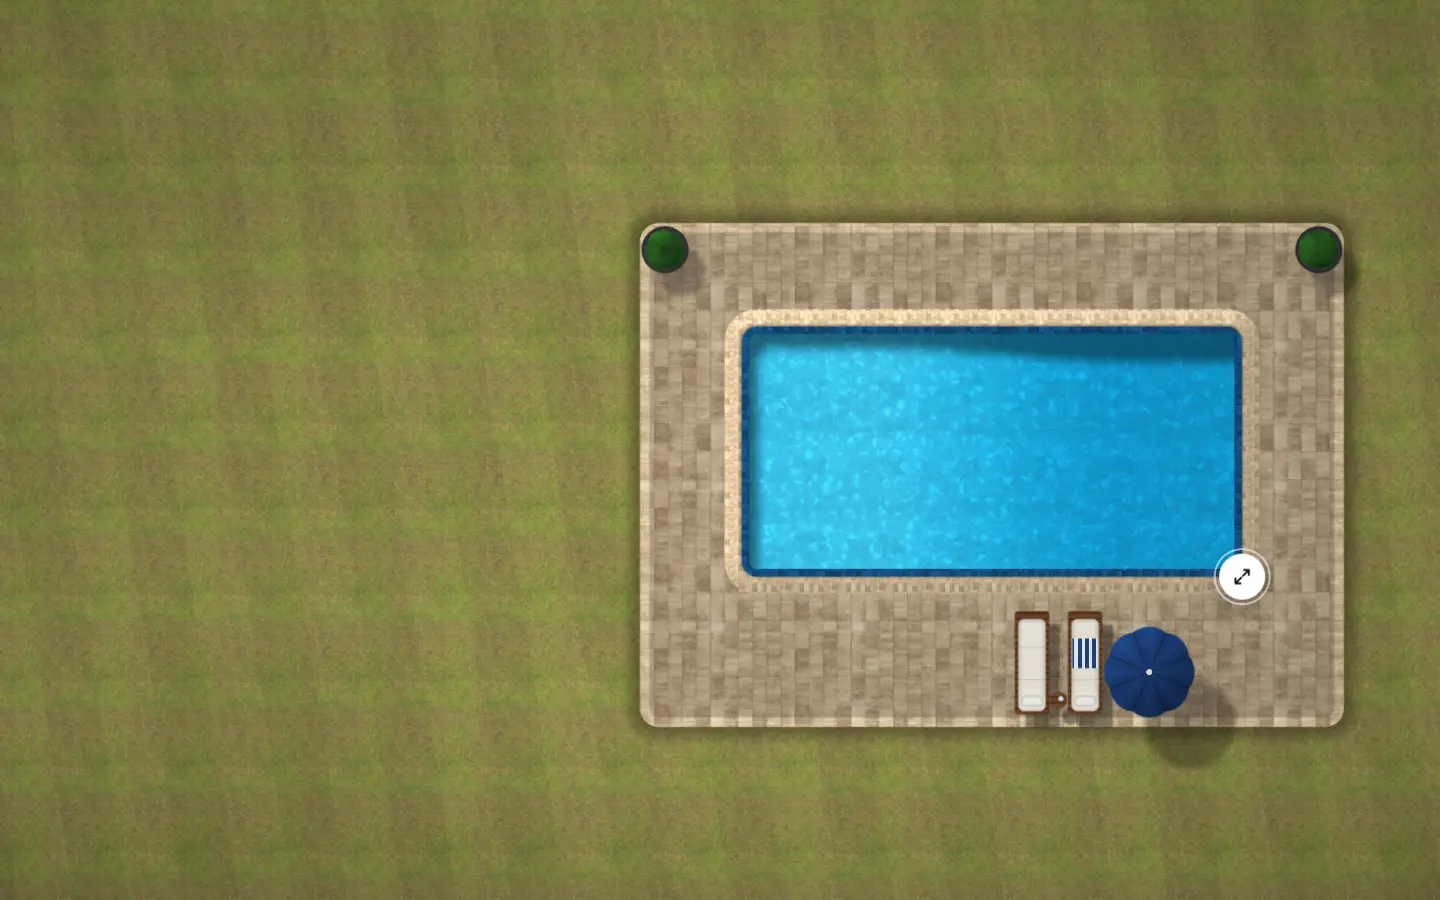
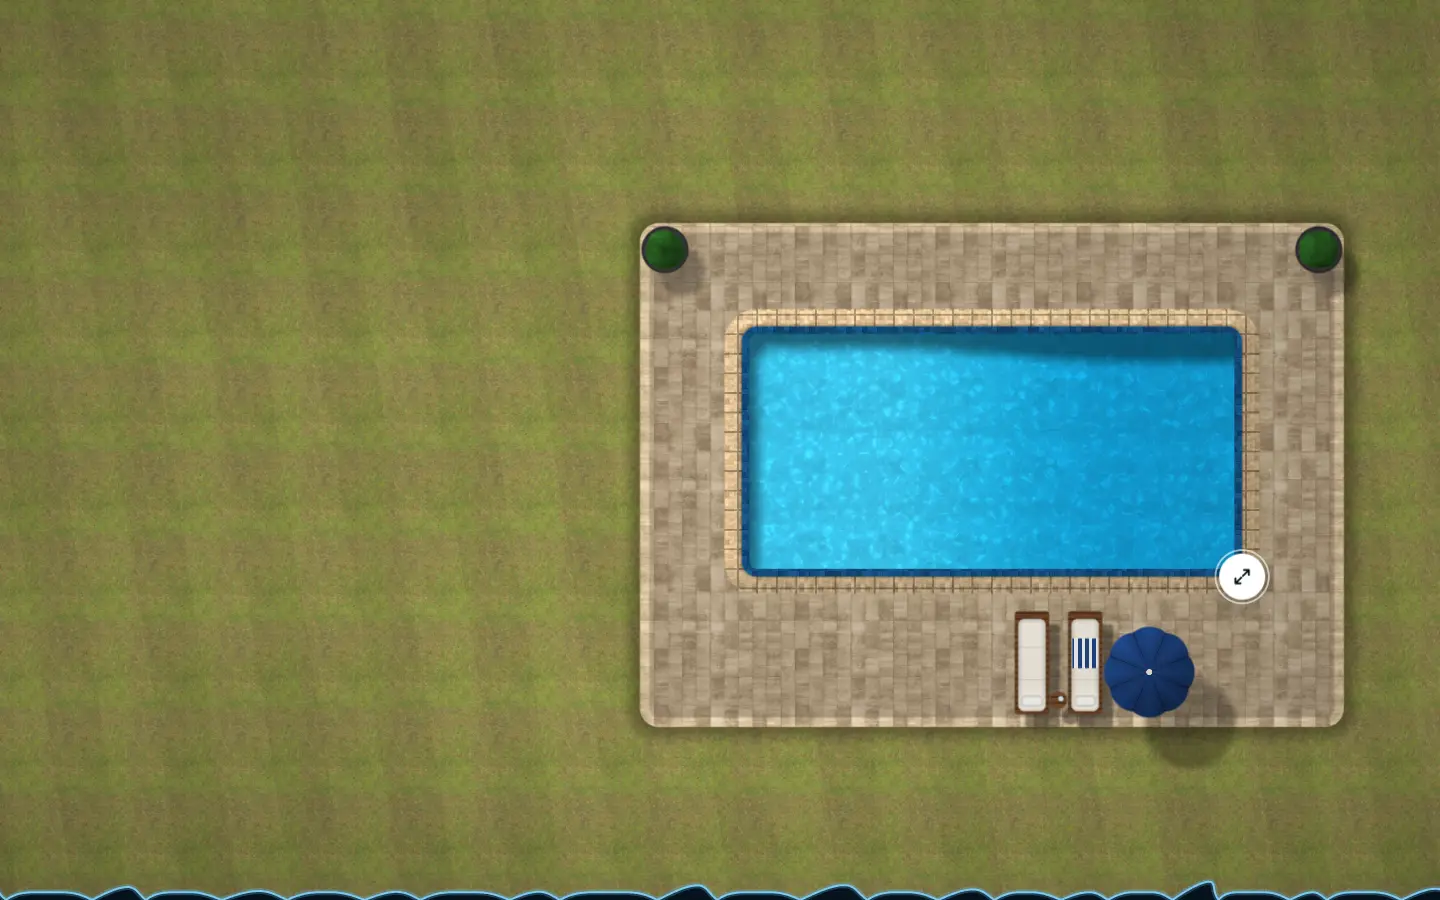
Deck edge, varied dividers, swipeable build photos, desktop scroll-in, phone hero

diff --git a/app.js b/app.js
@@ -12,7 +12,7 @@ const esc = s => String(s).replace(/[&<>"]/g, c => ({ '&': '&amp;', '<': '&lt;',
   if (reduced || !('IntersectionObserver' in window)) { els.forEach(e => e.classList.add('is-visible')); return; }
   const n = new Map();
   els.forEach(e => { const p = e.parentElement, i = n.get(p) || 0; e.style.setProperty('--d', i * .08 + 's'); n.set(p, i + 1); });
-  const io = new IntersectionObserver(es => es.forEach(e => { if (e.isIntersecting) { e.target.classList.add('is-visible'); io.unobserve(e.target); } }), { threshold: .01, rootMargin: '0px 0px -8% 0px' });
+  const io = new IntersectionObserver(es => es.forEach(e => { if (e.isIntersecting) { e.target.classList.add('is-visible'); io.unobserve(e.target); } }), { threshold: .01, rootMargin: innerWidth > 860 ? '0px 0px -16% 0px' : '0px 0px -8% 0px' });
   els.forEach(e => io.observe(e));
   setTimeout(() => els.forEach(e => { if (e.getBoundingClientRect().top < innerHeight) e.classList.add('is-visible'); }), 1500);
 })();
@@ -74,7 +74,7 @@ function openPlanner() {
 $('#svcPlan').addEventListener('click', openPlanner);
 $('#planDone').addEventListener('click', () => { hero.classList.remove('planning'); $('#svcPlan').setAttribute('aria-expanded', 'false'); scrollTo({ top: 0, behavior: reduced ? 'auto' : 'smooth' }); $('#svcPlan').focus({ preventScroll: true }); });
 $$('a[href="#design"]:not(#dockMain)').forEach(a => a.addEventListener('click', e => { e.preventDefault(); openPlanner(); }));
-import('./yard.js?v=3').then(({ mountYard }) => {
+import('./yard.js?v=4').then(({ mountYard }) => {
   const copy = $('.hero-copy');
   yard = mountYard(cv, { dpr: phone() ? 1.5 : 1.25, reduced, still: q.has('still'), labels: { L: $('#dimL'), W: $('#dimW') }, grip: $('#grip'),
     pad: phone() ? [18, 30] : [34, 30],
@@ -98,20 +98,32 @@ const story = [
 ];
 let si = 0;
 const sImg = $('#storyImg');
-function setStory(i) {
+function setStory(i, dir = 0) {
   si = (i + story.length) % story.length; const [f, t, b, alt] = story[si];
   $$('#storySteps button').forEach((e, k) => e.setAttribute('aria-pressed', k === si));
   $('#storyTitle').textContent = t; $('#storyBody').textContent = b; $('#storyCount').textContent = String(si + 1).padStart(2, '0') + ' / 07';
   sImg.classList.add('swap');
   const im = new Image(); im.src = `img/${f}-lg.webp`;
-  const go = () => { sImg.srcset = `img/${f}-sm.webp 600w, img/${f}-lg.webp 1000w`; sImg.src = `img/${f}-lg.webp`; sImg.alt = alt; sImg.classList.remove('swap'); };
+  const go = () => { sImg.srcset = `img/${f}-sm.webp 600w, img/${f}-lg.webp 1000w`; sImg.src = `img/${f}-lg.webp`; sImg.alt = alt; sImg.classList.remove('swap');
+    if (dir && !reduced) { sImg.style.transition = 'none'; sImg.style.transform = `translateX(${dir * 36}px)`; sImg.style.opacity = 0; void sImg.offsetWidth; sImg.style.transition = ''; }
+    sImg.style.transform = ''; sImg.style.opacity = ''; };
   im.decode ? im.decode().then(go, go) : go();
   const btn = $$('#storySteps button')[si]; if (phone() && btn) btn.parentElement.parentElement.scrollTo({ left: btn.offsetLeft - 16, behavior: reduced ? 'auto' : 'smooth' });
 }
 $('#storyBody').textContent = story[0][2];
 $$('#storySteps button').forEach(b => b.addEventListener('click', () => setStory(+b.dataset.i)));
-$('#storyPrev').addEventListener('click', () => setStory(si - 1));
-$('#storyNext').addEventListener('click', () => setStory(si + 1));
+$('#storyPrev').addEventListener('click', () => setStory(si - 1, -1));
+$('#storyNext').addEventListener('click', () => setStory(si + 1, 1));
+// swipe the photo: it follows the finger sideways, then the next step slides in. Up-and-down still scrolls the page.
+{ const m = $('.story-media'); let x0 = 0, y0 = 0, dx = 0, axis = '', on = false;
+  m.addEventListener('touchstart', e => { if (e.touches.length !== 1) return; on = true; axis = ''; dx = 0; x0 = e.touches[0].clientX; y0 = e.touches[0].clientY; sImg.style.transition = 'none'; }, { passive: true });
+  m.addEventListener('touchmove', e => { if (!on) return; const t = e.touches[0]; dx = t.clientX - x0; const dy = t.clientY - y0;
+    if (!axis && Math.abs(dx) + Math.abs(dy) > 8) axis = Math.abs(dx) > Math.abs(dy) ? 'x' : 'y';
+    if (axis === 'x') { sImg.style.transform = `translateX(${dx * .9}px)`; sImg.style.opacity = Math.max(.35, 1 - Math.abs(dx) / 420); } }, { passive: true });
+  const end = () => { if (!on) return; on = false; sImg.style.transition = '';
+    if (axis === 'x' && Math.abs(dx) > 48) { const d = dx < 0 ? 1 : -1; sImg.style.transform = `translateX(${-d * 70}px)`; sImg.style.opacity = 0; m.classList.add('swiped'); setStory(si + d, d); }
+    else { sImg.style.transform = ''; sImg.style.opacity = ''; } };
+  m.addEventListener('touchend', end); m.addEventListener('touchcancel', end); }
 story.forEach(([f]) => { if (f !== 'b1-stakes') { const l = document.createElement('link'); l.rel = 'prefetch'; l.href = `img/${f}-${phone() ? 'sm' : 'lg'}.webp`; document.head.append(l); } });
 
 /* ---------- chips ---------- */
@@ -353,31 +365,34 @@ new IntersectionObserver(([e]) => { inReq = e.isIntersecting; dockSet(); }, { th
   const hash = n => { const v = Math.sin(n * 127.1 + 311.7) * 43758.5453; return v - Math.floor(v); };
   const noise = x => { const i = Math.floor(x), f = x - i, u = f * f * (3 - 2 * f); return hash(i) * (1 - u) + hash(i + 1) * u; };
   const ss = (a, b, x) => { const v = Math.max(0, Math.min(1, (x - a) / (b - a))); return v * v * (3 - 2 * v); };
-  const water = (s, seed) => ss(.44, .62, noise(s / 520 + seed));
+  const water = (s, seed, ch) => ss(ch.wt, ch.wt + .18, noise(s / ch.ws + seed));
   const B = 112; let lean = 0;                                             // lean: how far (px) this point is pushed forward, set by trace()
-  const trace = (s, t, seed) => {
-    let v = 0; const j = Math.floor(s / B); lean = 0;
+  const trace = (s, t, seed, ch) => {
+    let v = 0; const j = Math.floor(s / (B * ch.bs)); lean = 0;
     // heartbeat: tall uneven spikes; a pulse travels down the line about once a second and kicks each spike as it passes (lub, then a softer dub)
     for (let n = j - 1; n <= j + 1; n++) {
       const h1 = hash(n * 3.17 + seed), h2 = hash(n * 5.31 + seed + 9), h3 = hash(n * 7.77 + seed + 21), h4 = hash(n * 1.93 + seed + 33);
       if (h3 < .08) continue;                                              // a skipped beat now and then
-      const c = (n + .5 + (h1 - .5) * .42) * B, x = (s - c) / (B * (.8 + .35 * h4)) + .4;
+      const c = (n + .5 + (h1 - .5) * .42) * B * ch.bs, x = (s - c) / (B * ch.bs * (.72 + .4 * h4)) + .4;
       if (x <= 0 || x >= 1) continue;
       const ph = ((t * 1.05 - c / 760 + seed) % 1 + 1) % 1, kick = Math.exp(-ph * 5.5) + .5 * Math.exp(-(((ph + .72) % 1)) * 7);
-      v += (.62 + .16 * h2) * (1 + .16 * kick) * (1 - water(c, seed)) * beat(x);
+      v += (.5 + .3 * h2 + (h2 > .9 ? .08 : 0)) * ch.bg * (1 + .16 * kick) * (1 - water(c, seed, ch)) * beat(x);
     }
     // water: sets of real swells. Sharp crests, long flat troughs, crests pushed forward so they lean and start to curl, rolling faster than the line travels
-    const w = water(s, seed);
+    const w = water(s, seed, ch);
     if (w > .001) {
-      const set = .55 + .45 * noise(s / 210 + seed + 70 - t * .1), ph = (s + 30 * Math.sin(s / 310 + seed)) / 104 * 6.2832 - t * 2.5;   // every moving part runs forward, the way the line travels
-      const c1 = Math.pow(.5 + .5 * Math.sin(ph), 1.5);
-      const hgt = w * set * c1 * .78;
+      const set = .55 + .45 * noise(s / 210 + seed + 70 - t * .1), ph = (s + 34 * Math.sin(s / 310 + seed) + 14 * Math.sin(s / 137 + seed * 2.)) / ch.wl * 6.2832 - t * ch.roll;   // every moving part runs forward, the way the line travels
+      const ci = Math.floor(ph / 6.2832 + .25), ah = .5 + .5 * hash(ci * 1.7 + seed), shp = 1.15 + 1.5 * hash(ci * 2.3 + seed + 5);   // this wave's own height and sharpness; they travel with it
+      const c1 = Math.pow(.5 + .5 * Math.sin(ph), shp) * ah;
+      const hgt = w * set * c1 * ch.wg;
       v += hgt - w * .26;
-      lean = 15 * hgt * hgt;                                    // the top of the crest is thrown forward so it curls over its own face
+      lean = ch.ln * hgt * hgt;                                    // the top of the crest is thrown forward so it curls over its own face
     }
     return v;
   };
-  const items = $$('.pulse').map((el, i) => { const cv = document.createElement('canvas'); el.append(cv); el.classList.add('live'); return { el, cv, ctx: cv.getContext('2d'), on: false, off: i * 1733.3, seed: i * 17.37 + 3, sp: 52 + (i * 7 % 5) * 6, w: 0, h: 0, sec: el.parentElement, prev: el.parentElement.previousElementSibling }; });
+  const items = $$('.pulse').map((el, i) => { const cv = document.createElement('canvas'); el.append(cv); el.classList.add('live'); return { el, cv, ctx: cv.getContext('2d'), on: false, off: i * 1733.3, seed: i * 17.37 + 3, sp: 46 + hash(i * 3.1 + 2) * 30,
+    // character: how much water vs heartbeat, wave length and height, how hard the crests lean, beat spacing and height
+    ch: { wt: .36 + .2 * hash(i * 5.7 + 1), ws: 420 + 260 * hash(i * 2.9 + 4), wl: 82 + 56 * hash(i * 4.3 + 7), wg: .78 + .3 * hash(i * 6.1 + 9), ln: 8 + 18 * hash(i * 7.9 + 11), roll: 1.9 + 1.1 * hash(i * 8.3 + 13), bs: .85 + .45 * hash(i * 9.1 + 15), bg: .9 + .25 * hash(i * 1.3 + 17) }, w: 0, h: 0, sec: el.parentElement, prev: el.parentElement.previousElementSibling }; });
   // the colour a section shows along one of its edges, so humps and dips can be filled with the right side's colour
   const mixc = t => { t = Math.max(0, Math.min(1, t)); return `rgb(${Math.round(29 + (15 - 29) * t)},${Math.round(93 + (58 - 93) * t)},${Math.round(181 + (117 - 181) * t)})`; };
   const edge = (sec, bottom, ctx, w) => {
@@ -388,10 +403,10 @@ new IntersectionObserver(([e]) => { inReq = e.isIntersecting; dockSet(); }, { th
   };
   const fit = it => { const d = Math.min(2, devicePixelRatio || 1), w = it.el.clientWidth, h = it.el.clientHeight; it.w = w; it.h = h; it.cv.width = Math.round(w * d); it.cv.height = Math.round(h * d); it.ctx.setTransform(d, 0, 0, d, 0, 0); let pv = it.sec.previousElementSibling; while (pv && !pv.offsetHeight) pv = pv.previousElementSibling; it.up = edge(pv, true, it.ctx, w); it.dn = edge(it.sec, false, it.ctx, w); it.one = !it.up; if (it.up === it.dn) it.up = it.dn = null; };
   const draw = (it, t) => {
-    const { ctx, w, h } = it, mid = h / 2, amp = h * (it.one ? .36 : .46), sh = t * it.sp + 16 * Math.sin(t * .45 + it.seed) + it.off, k = w < 700 ? .55 : 1;
+    const { ctx, w, h } = it, mid = h / 2, amp = h * (it.one ? (w < 700 ? .2 : .36) : .46), sh = t * it.sp + 16 * Math.sin(t * .45 + it.seed) + it.off, k = w < 700 ? .55 : 1;
     ctx.clearRect(0, 0, w, h);
     const line = new Path2D(), bDn = new Path2D(), bUp = new Path2D(), O = 2; bDn.moveTo(-60, mid + O); bUp.moveTo(-60, mid - O);
-    for (let x = -60; x <= w + 60; x += 1.5) { let v = trace(x / k - sh, t, it.seed); if (it.one) v = Math.abs(v); const y = mid - v * amp, X = x + lean * k * (v > 0 ? 1 : 0); x > -60 ? line.lineTo(X, y) : line.moveTo(X, y); bDn.lineTo(X, y); bUp.lineTo(X, y); }
+    for (let x = -60; x <= w + 60; x += 1.5) { let v = trace(x / k - sh, t, it.seed, it.ch); if (it.one) v = Math.abs(v); const y = mid - v * amp, X = x + lean * k * (v > 0 ? 1 : 0); x > -60 ? line.lineTo(X, y) : line.moveTo(X, y); bDn.lineTo(X, y); bUp.lineTo(X, y); }
     bDn.lineTo(w + 60, mid + O); bDn.closePath(); bUp.lineTo(w + 60, mid - O); bUp.closePath();
     // the trace IS the edge: lower section's colour fills what rises above the seam, upper section's fills what dips below
     if (it.dn && it.up) { ctx.fillStyle = it.up; ctx.fillRect(0, mid - O, w, O); ctx.fillStyle = it.dn; ctx.fillRect(0, mid, w, O); }   // seal the seam itself

diff --git a/index.html b/index.html
@@ -14,7 +14,7 @@
 <meta property="og:image" content="https://preview.localform.online/pool-doctor-preview/og.jpg">
 <link rel="icon" href="favicon.svg" type="image/svg+xml">
 <link rel="preload" href="fonts/montserrat-latin-900-normal.woff2" as="font" type="font/woff2" crossorigin>
-<link rel="stylesheet" href="styles.css?v=13">
+<link rel="stylesheet" href="styles.css?v=16">
 <script type="application/ld+json">{"@context":"https://schema.org","@type":"HomeAndConstructionBusiness","name":"The Pool Doctor","telephone":"+1-843-737-3165","email":"thepooldoc@yahoo.com","founder":{"@type":"Person","name":"Joseph Penna"},"areaServed":["Charleston, SC","Sullivan's Island, SC","Isle of Palms, SC","James Island, SC","Summerville, SC"],"openingHours":"Mo-Fr 07:00-19:00","sameAs":["https://www.instagram.com/the_pooldoctor/"]}</script>
 </head>
 <body>
@@ -36,7 +36,7 @@
     <button type="button" class="grip" id="grip" aria-label="Resize the pool: drag, or use the arrow keys"><svg viewBox="0 0 24 24" aria-hidden="true"><path d="M14 4h6v6M10 20H4v-6M20 4l-7 7M4 20l7-7"/></svg></button>
   </div>
   <div class="hero-copy">
-    <p class="eyebrow"><i></i><span>Charleston, SC &middot; Joseph Penna, owner</span></p>
+    <p class="eyebrow"><i></i><span>Charleston, SC</span></p>
     <h1 id="hero-h">Design your pool. <em>The doctor builds&nbsp;it.</em></h1>
     <div class="svc" id="svc">
       <button type="button" class="btn btn-p" id="svcPlan" aria-expanded="false" aria-controls="designer">Design my pool<svg viewBox="0 0 24 24" aria-hidden="true"><use href="#i-arrow"/></svg></button>
@@ -98,6 +98,7 @@
       <div class="story-media">
         <img id="storyImg" src="img/b1-stakes-lg.webp" srcset="img/b1-stakes-sm.webp 600w, img/b1-stakes-lg.webp 1000w" sizes="(max-width: 860px) 100vw, 56vw" alt="The backyard lawn marked out with wooden stakes" width="1000" height="1000">
         <span class="story-count mono" id="storyCount">01 / 07</span>
+        <span class="swipe-hint mono" aria-hidden="true">Swipe &rarr;</span>
       </div>
       <div class="story-side">
         <ol class="story-steps" id="storySteps">
@@ -337,7 +338,8 @@
   <symbol id="i-reno" viewBox="0 0 48 48"><g fill="none" stroke="currentColor" stroke-width="2.2" stroke-linejoin="round" stroke-linecap="round"><path d="M8 40h32M10 40V22h28v18"/><path d="M14 22v-6h20v6M18 16v-6h12v6" opacity=".6"/><path d="M15 31h18"/></g></symbol>
   <symbol id="i-fix" viewBox="0 0 48 48"><g fill="none" stroke="currentColor" stroke-width="2.2" stroke-linejoin="round" stroke-linecap="round"><circle cx="18" cy="26" r="10"/><path d="M28 26h12v8H28M14 26h8M18 22v8"/><path d="M18 16v-6M14 10h8" opacity=".6"/></g></symbol>
 </svg>
-<script type="module" src="app.js?v=18"></script>
+<script type="module" src="app.js?v=21"></script>
+
 
 
 

diff --git a/styles.css b/styles.css
@@ -554,3 +554,33 @@ input[type=file]::file-selector-button{min-height:44px;padding:0 16px;border-rad
   .done-actions .btn{flex:1 1 100%}
 }
 @media(max-width:380px){.chips.tiles button{font-size:11.5px;letter-spacing:-.01em}.chips.sw button{font-size:12.5px}}
+
+/* build story: swipe on phones */
+.story-media{touch-action:pan-y}
+.story-media img{transition:opacity .35s,transform .35s cubic-bezier(.16,1,.3,1);-webkit-user-drag:none;user-select:none}
+.swipe-hint{display:none}
+@media(max-width:860px){
+  .swipe-hint{display:inline-flex;align-items:center;gap:6px;position:absolute;right:12px;bottom:12px;padding:7px 11px;border-radius:99px;background:rgba(6,17,27,.72);color:#fff;font-size:12px;pointer-events:none;transition:opacity .4s}
+  .story-media.swiped .swipe-hint{opacity:0}
+}
+
+/* desktop: scroll-in with more depth (phones keep the lighter version) */
+@media(min-width:861px) and (prefers-reduced-motion:no-preference){
+  [data-reveal]{transform:translateY(46px);transition:opacity 1s cubic-bezier(.16,1,.3,1),transform 1.1s cubic-bezier(.16,1,.3,1);transition-delay:var(--d,0s)}
+  h2[data-reveal]{transform:translateY(60px)}
+  .reno[data-reveal],.rev[data-reveal],.door[data-reveal],.key[data-reveal],.sched[data-reveal],.faq details[data-reveal]{transform:translateY(54px) scale(.965)}
+  [data-reveal].is-visible{transform:none}
+  /* photos: the before/after pair comes in from both sides, and every photo settles from a slight zoom */
+  .ba[data-reveal]{transform:none;opacity:1}
+  .ba figure{opacity:0;transform:translateX(-70px);transition:opacity 1s cubic-bezier(.16,1,.3,1),transform 1.2s cubic-bezier(.16,1,.3,1)}
+  .ba figure:last-child{transform:translateX(70px);transition-delay:.12s}
+  .ba.is-visible figure{opacity:1;transform:none}
+  .ba img,.joe-img img,.story-media{transition:transform 1.6s cubic-bezier(.16,1,.3,1)}
+  .ba:not(.is-visible) img{transform:scale(1.14)}
+  [data-reveal]:not(.is-visible) .joe-img img,.joe-img[data-reveal]:not(.is-visible) img{transform:scale(1.14)}
+  .story[data-reveal]:not(.is-visible) .story-media{transform:scale(.94)}
+  .reno img{transition:transform 1.2s cubic-bezier(.16,1,.3,1) .15s}
+  .reno:not(.is-visible) img{transform:scale(.8) rotate(-4deg)}
+}
+@media(max-width:860px){.hero-copy{padding-bottom:46px}}
+@media(max-width:860px){.yard{height:max(300px,45svh)}.hero.planning .yard{height:max(270px,37svh)}.hero-copy{padding-bottom:58px}}

diff --git a/yard.js b/yard.js
@@ -62,6 +62,12 @@ vec3 deckCol(vec2 p, float k){
   vec3 c = mix(texture2D(tPl, p / 6.).rgb, vec3(.78), .35) * vec3(.84, .83, .8);
   vec2 j = abs(fract(p / 8. + .5) - .5) * 8.; return c * (1. - .35 * smoothstep(.07, .02, min(j.x, j.y)));
 }
+// coping to match the deck: tumbled paver soldier course, pale travertine bullnose, or a poured concrete edge
+vec3 copCol(vec2 p, float k){
+  if (k < .5) { vec2 j = abs(fract(p / 1.25 + .5) - .5) * 1.25; return texture2D(tP, p / 3.).rgb * vec3(1.1, 1.02, .9) * (1. - .3 * smoothstep(.09, .03, min(j.x, j.y))); }
+  if (k < 1.5) { vec3 c = texture2D(tP, p / 6. + .37).rgb; return mix(vec3(dot(c, vec3(.33))), c, .35) * vec3(1.42, 1.36, 1.24); }
+  return mix(texture2D(tPl, p / 4.).rgb, vec3(.8), .45) * vec3(.9, .9, .89);
+}
 float cn(vec2 p){ vec2 i = floor(p), f = fract(p); float d = 1.;
   for (int y = -1; y <= 1; y++) for (int x = -1; x <= 1; x++) { vec2 g = vec2(x, y); vec2 o = vec2(h21(i + g), h21(i + g + 17.3)); o = .5 + .5 * sin(uTime * .8 + 6.2831 * o); d = min(d, length(g + o - f)); }
   return d; }
@@ -139,7 +145,8 @@ void main(){
     col = mix(col, lc, smoothstep(fw, -fw, fol)); }
   // coping (travertine bullnose) round pool and spa
   vec2 g = vec2(dFdx(d), dFdy(d)); vec2 en = length(g) > 0. ? normalize(g) : vec2(0.);
-  vec3 cop = texture2D(tP, p / 3.).rgb * vec3(1.13, 1.08, 1.) * (.93 + .14 * dot(en, TL) * smoothstep(.0, .5, d));
+  vec3 cop = mix(copCol(p, floor(uDeck)), copCol(p, ceil(uDeck)), fract(uDeck)) * (.93 + .14 * dot(en, TL) * smoothstep(.0, .5, d));
+  cop *= 1. - .22 * smoothstep(1.5, 2., uDeck) * smoothstep(.12, .0, abs(d - 1.02));   // concrete: a shadow joint where the edge meets the slab
   cop *= .8 + .2 * smoothstep(0., .25, d);
   col = mix(col, cop, smoothstep(fw, -fw, d - 1.1));
   // water
